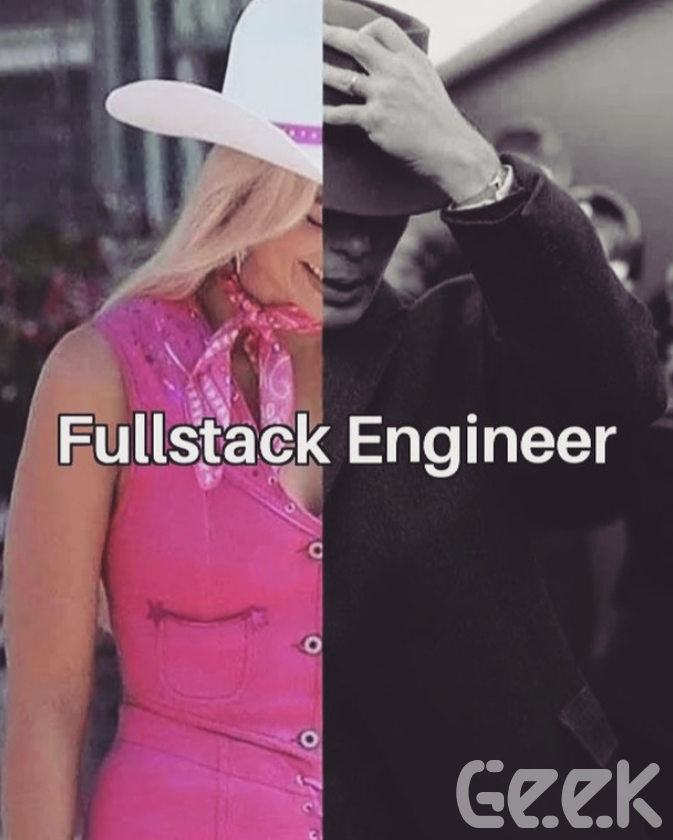
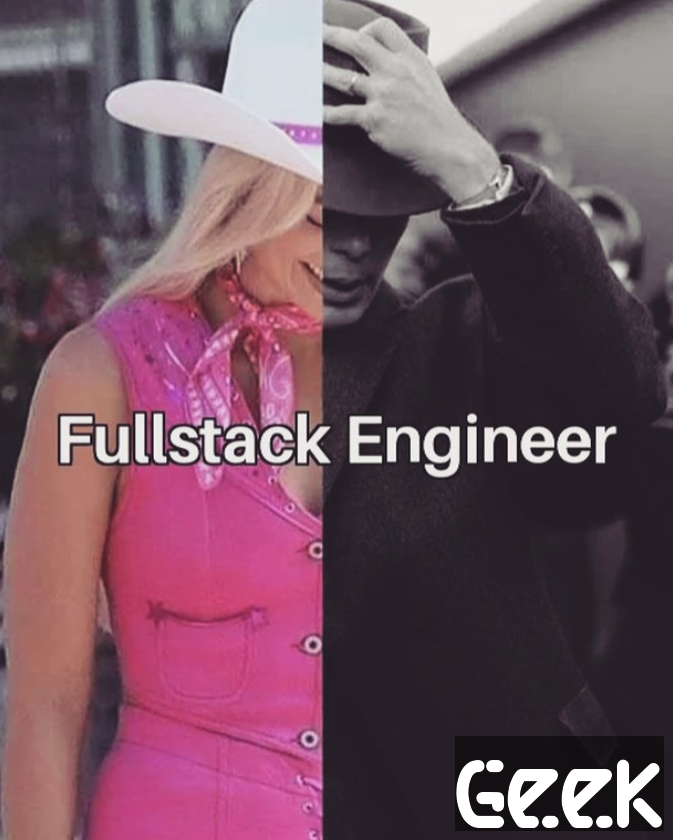
fix:invers

Changed region(s): [[0.6553, 0.8976, 0.9985, 0.9905]]

diff --git a/main.py b/main.py
@@ -1,27 +1,33 @@
 from PIL import Image, ImageDraw, ImageFont
 from math import ceil
 
+    
 def add_watermark(input_image_path, output_image_path, watermark_text):
     original_image = Image.open(input_image_path)
     width, height = original_image.size
     
     watermark = Image.new("RGBA", original_image.size)
     draw = ImageDraw.Draw(watermark, "RGBA")
-    
+
+    text = watermark_text
     font_size=ceil(height/width*min(75,int(width/len(watermark_text))))
     print(height,width,font_size)
-    text = watermark_text
-    font = ImageFont.truetype("Mexaronzy.ttf", font_size)
-
-    text_width, text_height = draw.textsize(text, font)
+    
+    font = ImageFont.truetype("Mexaronzy.ttf", font_size)  # Замените на путь к вашему шрифту
+    
+    print(draw.textlength(text, font=font))
+    text_width = int(draw.textlength(text, font=font))
+    text_height=font_size
     x_pos = width - text_width - 10
     y_pos = height - text_height - 10
 
-    draw.text((x_pos, y_pos), text, font=font, fill=(255, 255, 255, 128))
+    draw.rectangle([(x_pos, y_pos), (x_pos + text_width, y_pos + text_height)], fill=(0, 0, 0, 128))
+    draw.text((x_pos, y_pos), text, font=font, fill=(255, 255, 255, 255))
     
     watermarked_image = Image.alpha_composite(original_image.convert("RGBA"), watermark)
-    watermarked_image.save(output_image_path, "PNG")
-    
+    watermarked_image.save(output_image_path, "PNG")    
+
+
 import sys
 
 
